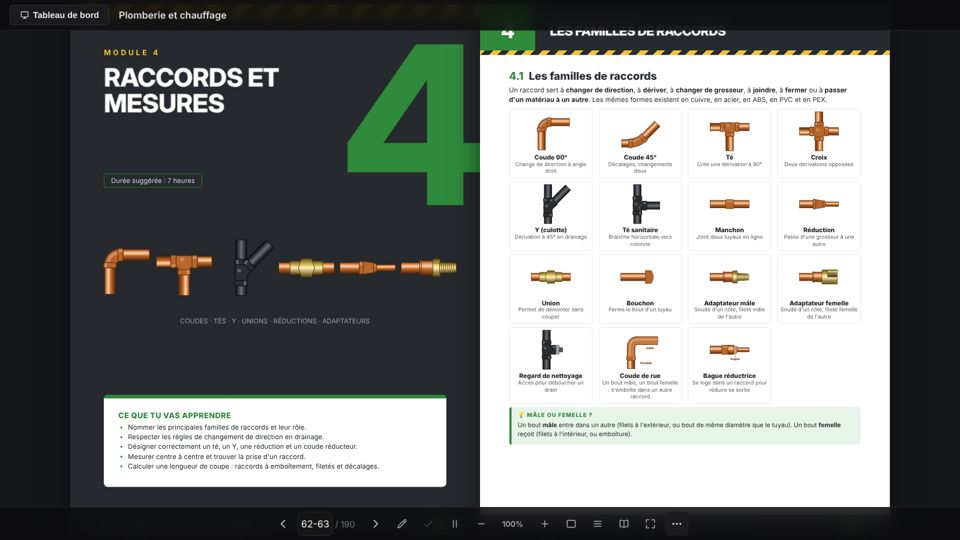
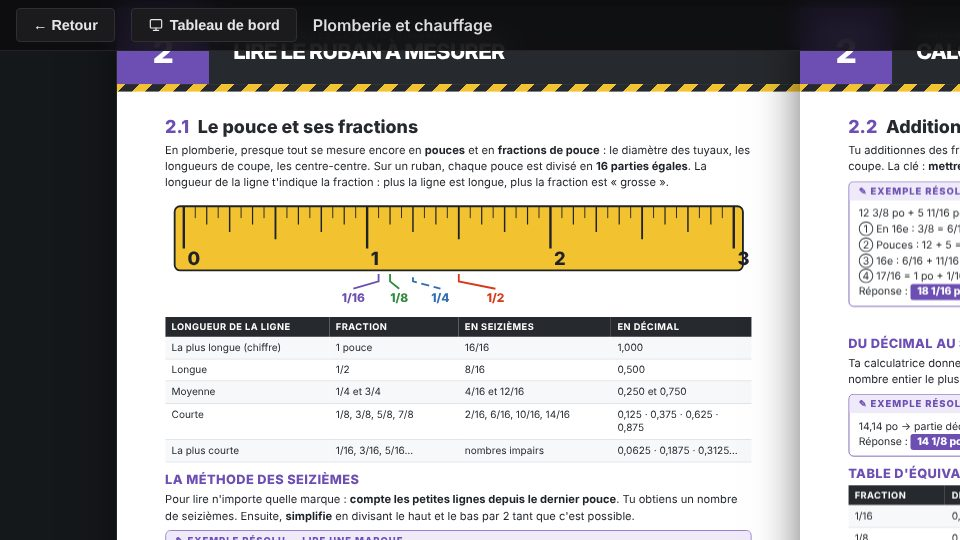
Lecteur : bouton Tableau de bord dans tous les livres
Claude-Session: https://claude.ai/code/session_0132P7fSy2K8VC3HWdnHumMj

diff --git a/index.html b/index.html
@@ -520,7 +520,9 @@
   .resume{transition:top .38s var(--ease),opacity .32s ease,translate .32s var(--ease),scale .32s var(--ease),display .32s allow-discrete}
   .tdb-pill{position:absolute;left:max(14px,env(safe-area-inset-left,0px));bottom:calc(10px + env(safe-area-inset-bottom,0px));z-index:41;display:none;align-items:center;gap:7px;height:38px;padding:0 14px;border-radius:8px;border:1px solid #ffffff2a;background:rgba(20,20,22,.72);color:#f1f1f2;font:600 .9rem "Segoe UI",Roboto,Arial,sans-serif;cursor:pointer;opacity:.5;transition:opacity .2s;backdrop-filter:blur(8px)}
   .tdb-pill:hover,.tdb-pill:focus-visible{opacity:1;outline:none}
-  .reader.tdb.auto.calme .tdb-pill{display:inline-flex}
+  .reader.auto.calme .tdb-pill{display:inline-flex}
+  #readerTdb{display:inline-flex;align-items:center;gap:6px}
+  .reader.tdb #readerTdb{display:none}
   #readerBack svg{vertical-align:-3px;margin-right:6px}
   .barres-handle{position:absolute;left:50%;bottom:calc(6px + env(safe-area-inset-bottom,0px));translate:-50% 0;z-index:35;width:60px;height:22px;border-radius:12px;border:1px solid #ffffff22;background:rgba(20,20,22,.6);color:#d4d4d8;display:none;align-items:center;justify-content:center;cursor:pointer;opacity:0;pointer-events:none;transition:opacity .35s ease .15s,background .2s}
   .reader.auto.calme .barres-handle{display:flex;opacity:.45;pointer-events:auto}
@@ -652,7 +654,7 @@
 </div>
 
 <div class="reader" id="reader">
-  <div class="reader-bar"><button id="readerBack">← Retour</button><span id="readerTitle"></span></div>
+  <div class="reader-bar"><button id="readerBack">← Retour</button><button id="readerTdb" type="button" title="Tableau de bord (E) — le livre reste ouvert"><svg viewBox="0 0 24 24" width="16" height="16" fill="none" stroke="currentColor" stroke-width="1.8" stroke-linecap="round" stroke-linejoin="round" aria-hidden="true"><rect x="3.5" y="4" width="17" height="12.5" rx="1.5"/><path d="M8 20h8M12 16.5V20"/></svg>Tableau de bord</button><span id="readerTitle"></span></div>
   <button class="tdb-pill" id="tdbPill" type="button" title="Retour au tableau de bord (E)"><svg viewBox="0 0 24 24" width="18" height="18" fill="none" stroke="currentColor" stroke-width="1.8" stroke-linecap="round" stroke-linejoin="round" aria-hidden="true"><rect x="3.5" y="4" width="17" height="12.5" rx="1.5"/><path d="M8 20h8M12 16.5V20"/></svg>Tableau de bord</button>
   <div class="rstage" id="rstage">
     <div class="rinner" id="rinner">
@@ -3527,6 +3529,7 @@ function closeReader(){
 }
 $("#readerBack").onclick = () => { if (window.TDB_ACTIF) allerTableauDeBord(); else closeReader(); };
 $("#tdbPill").onclick = () => allerTableauDeBord();
+$("#readerTdb").onclick = () => allerTableauDeBord();
 /* l'enseignant tourne lui-même les pages : on arrête de forcer la page demandée */
 document.addEventListener("keydown", e => { if (/^(ArrowLeft|ArrowRight|PageUp|PageDown| )$/.test(e.key)) RD.bouge = true; }, true);
 ["#tbPrev", "#tbNext", "#tbPg", "#mmenu"].forEach(sel => { const el = document.querySelector(sel); if (el) el.addEventListener("pointerdown", () => { RD.bouge = true; }, true); });
